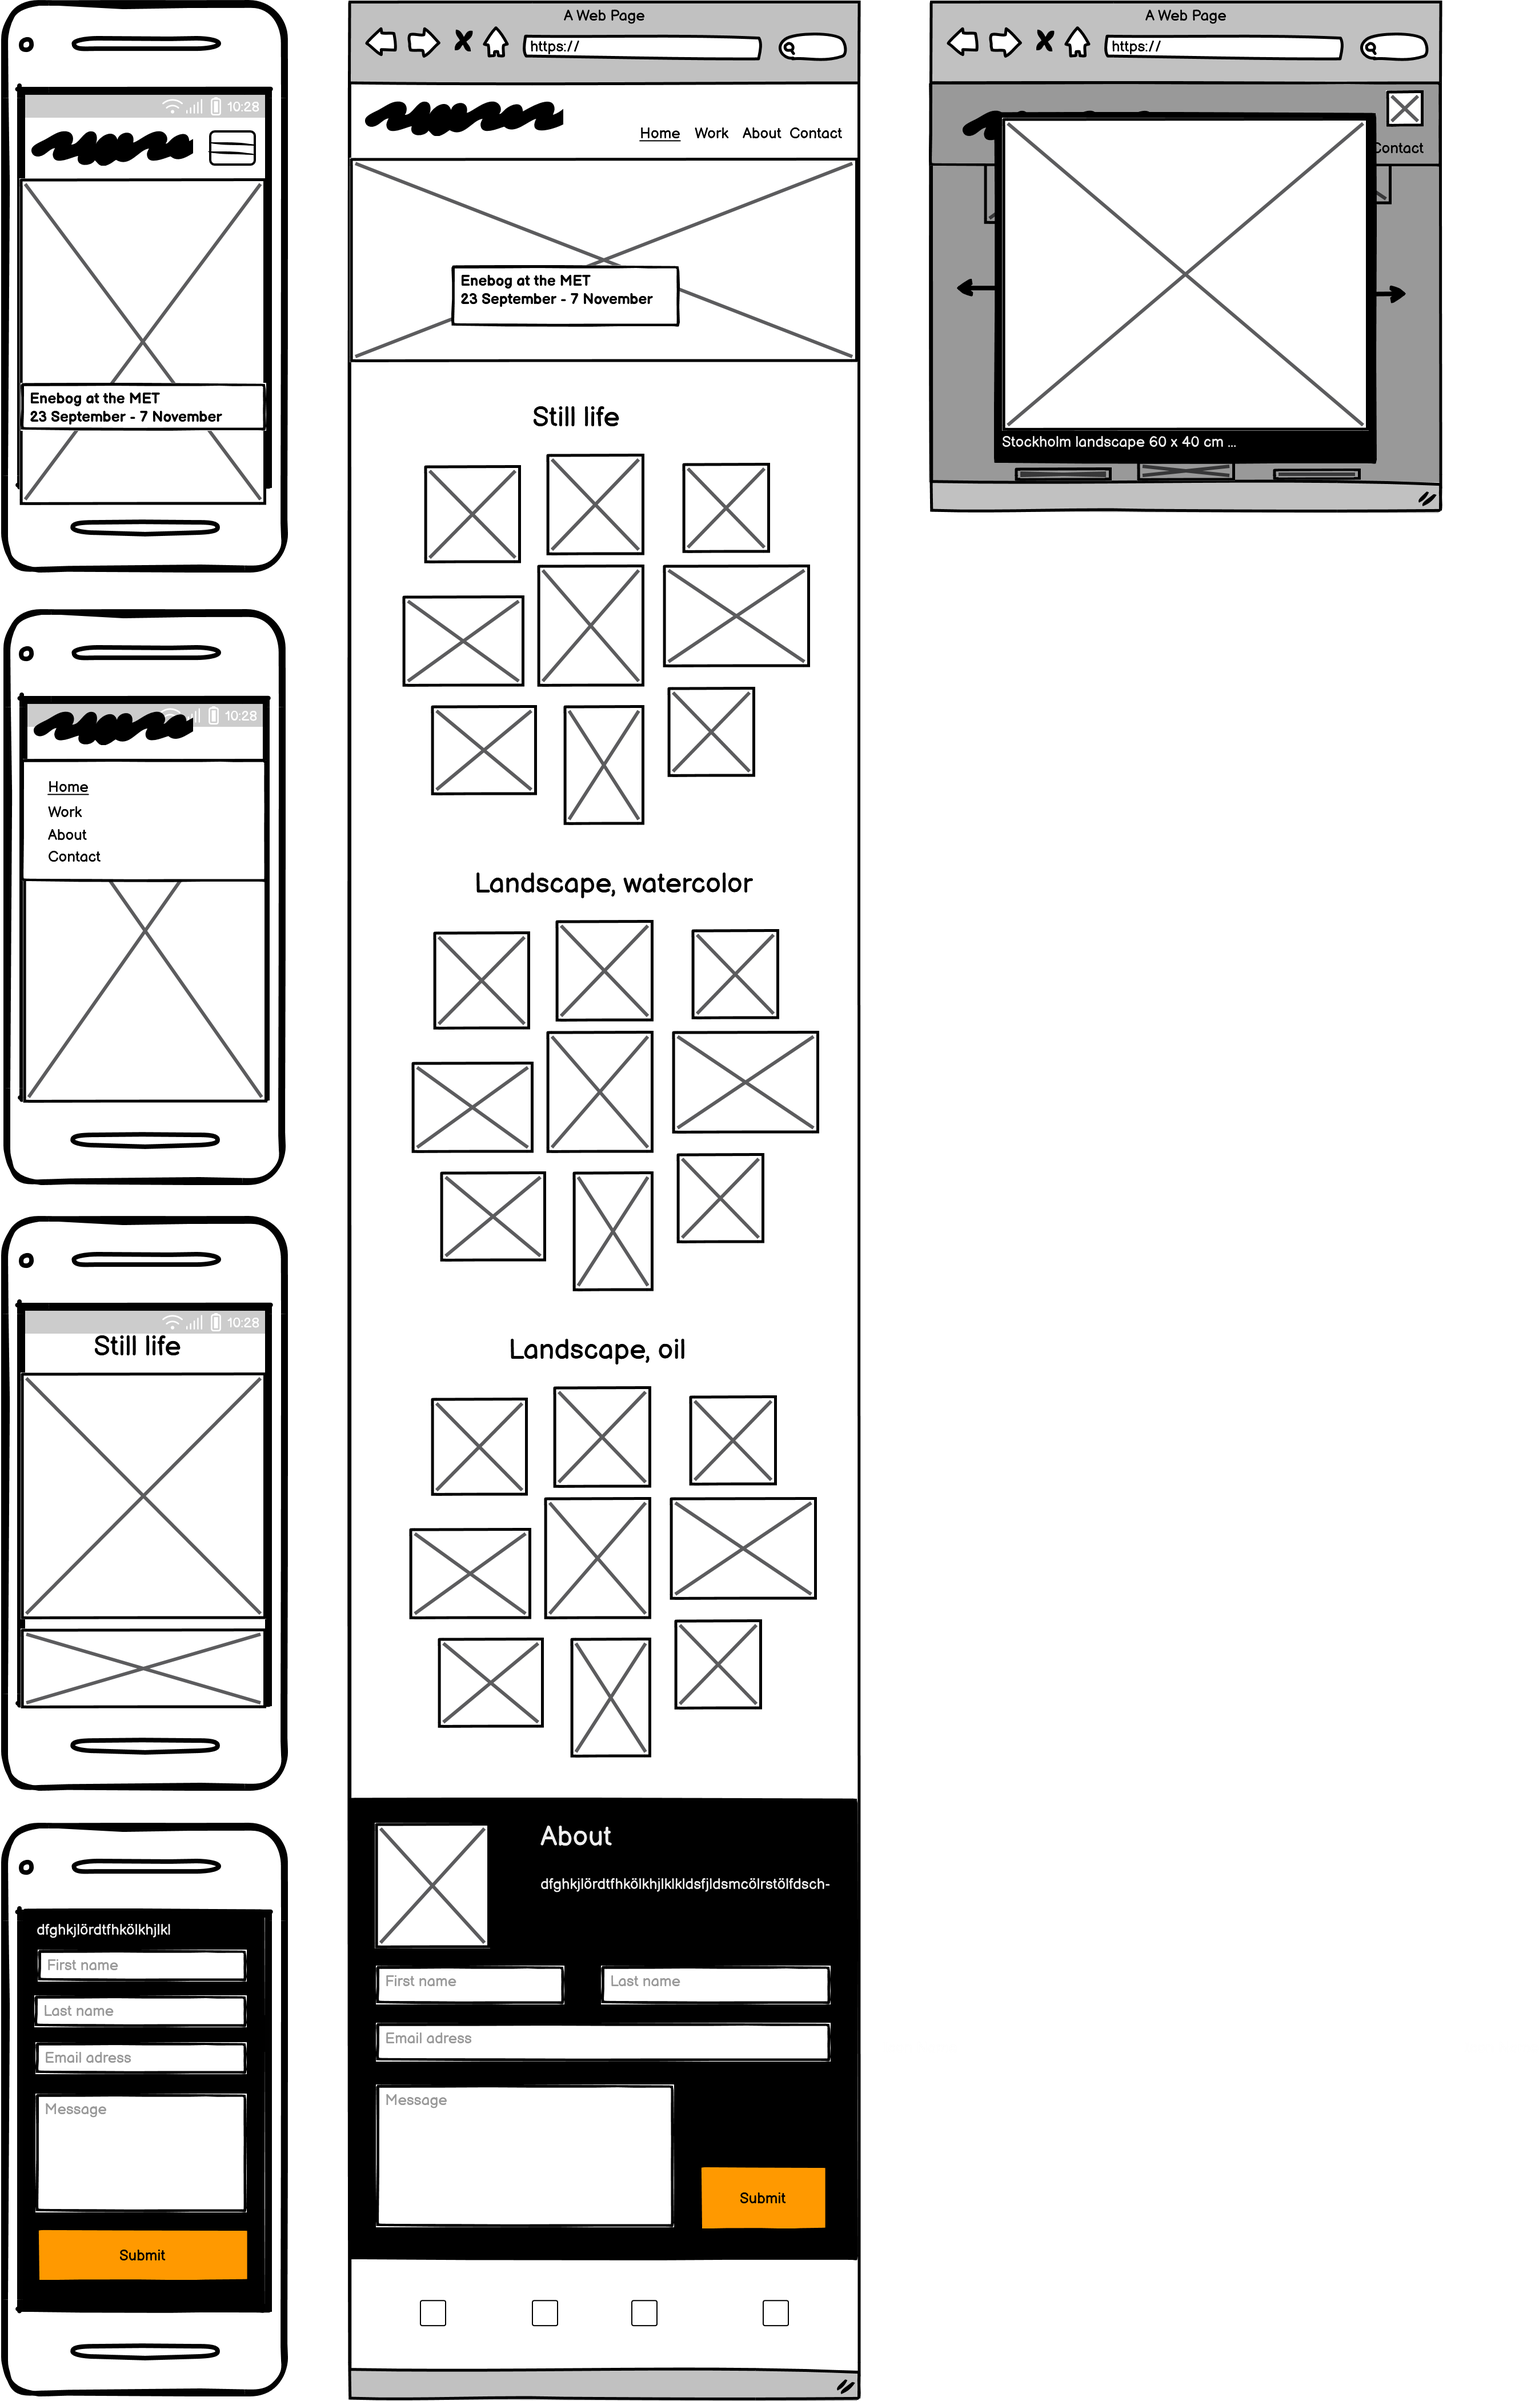
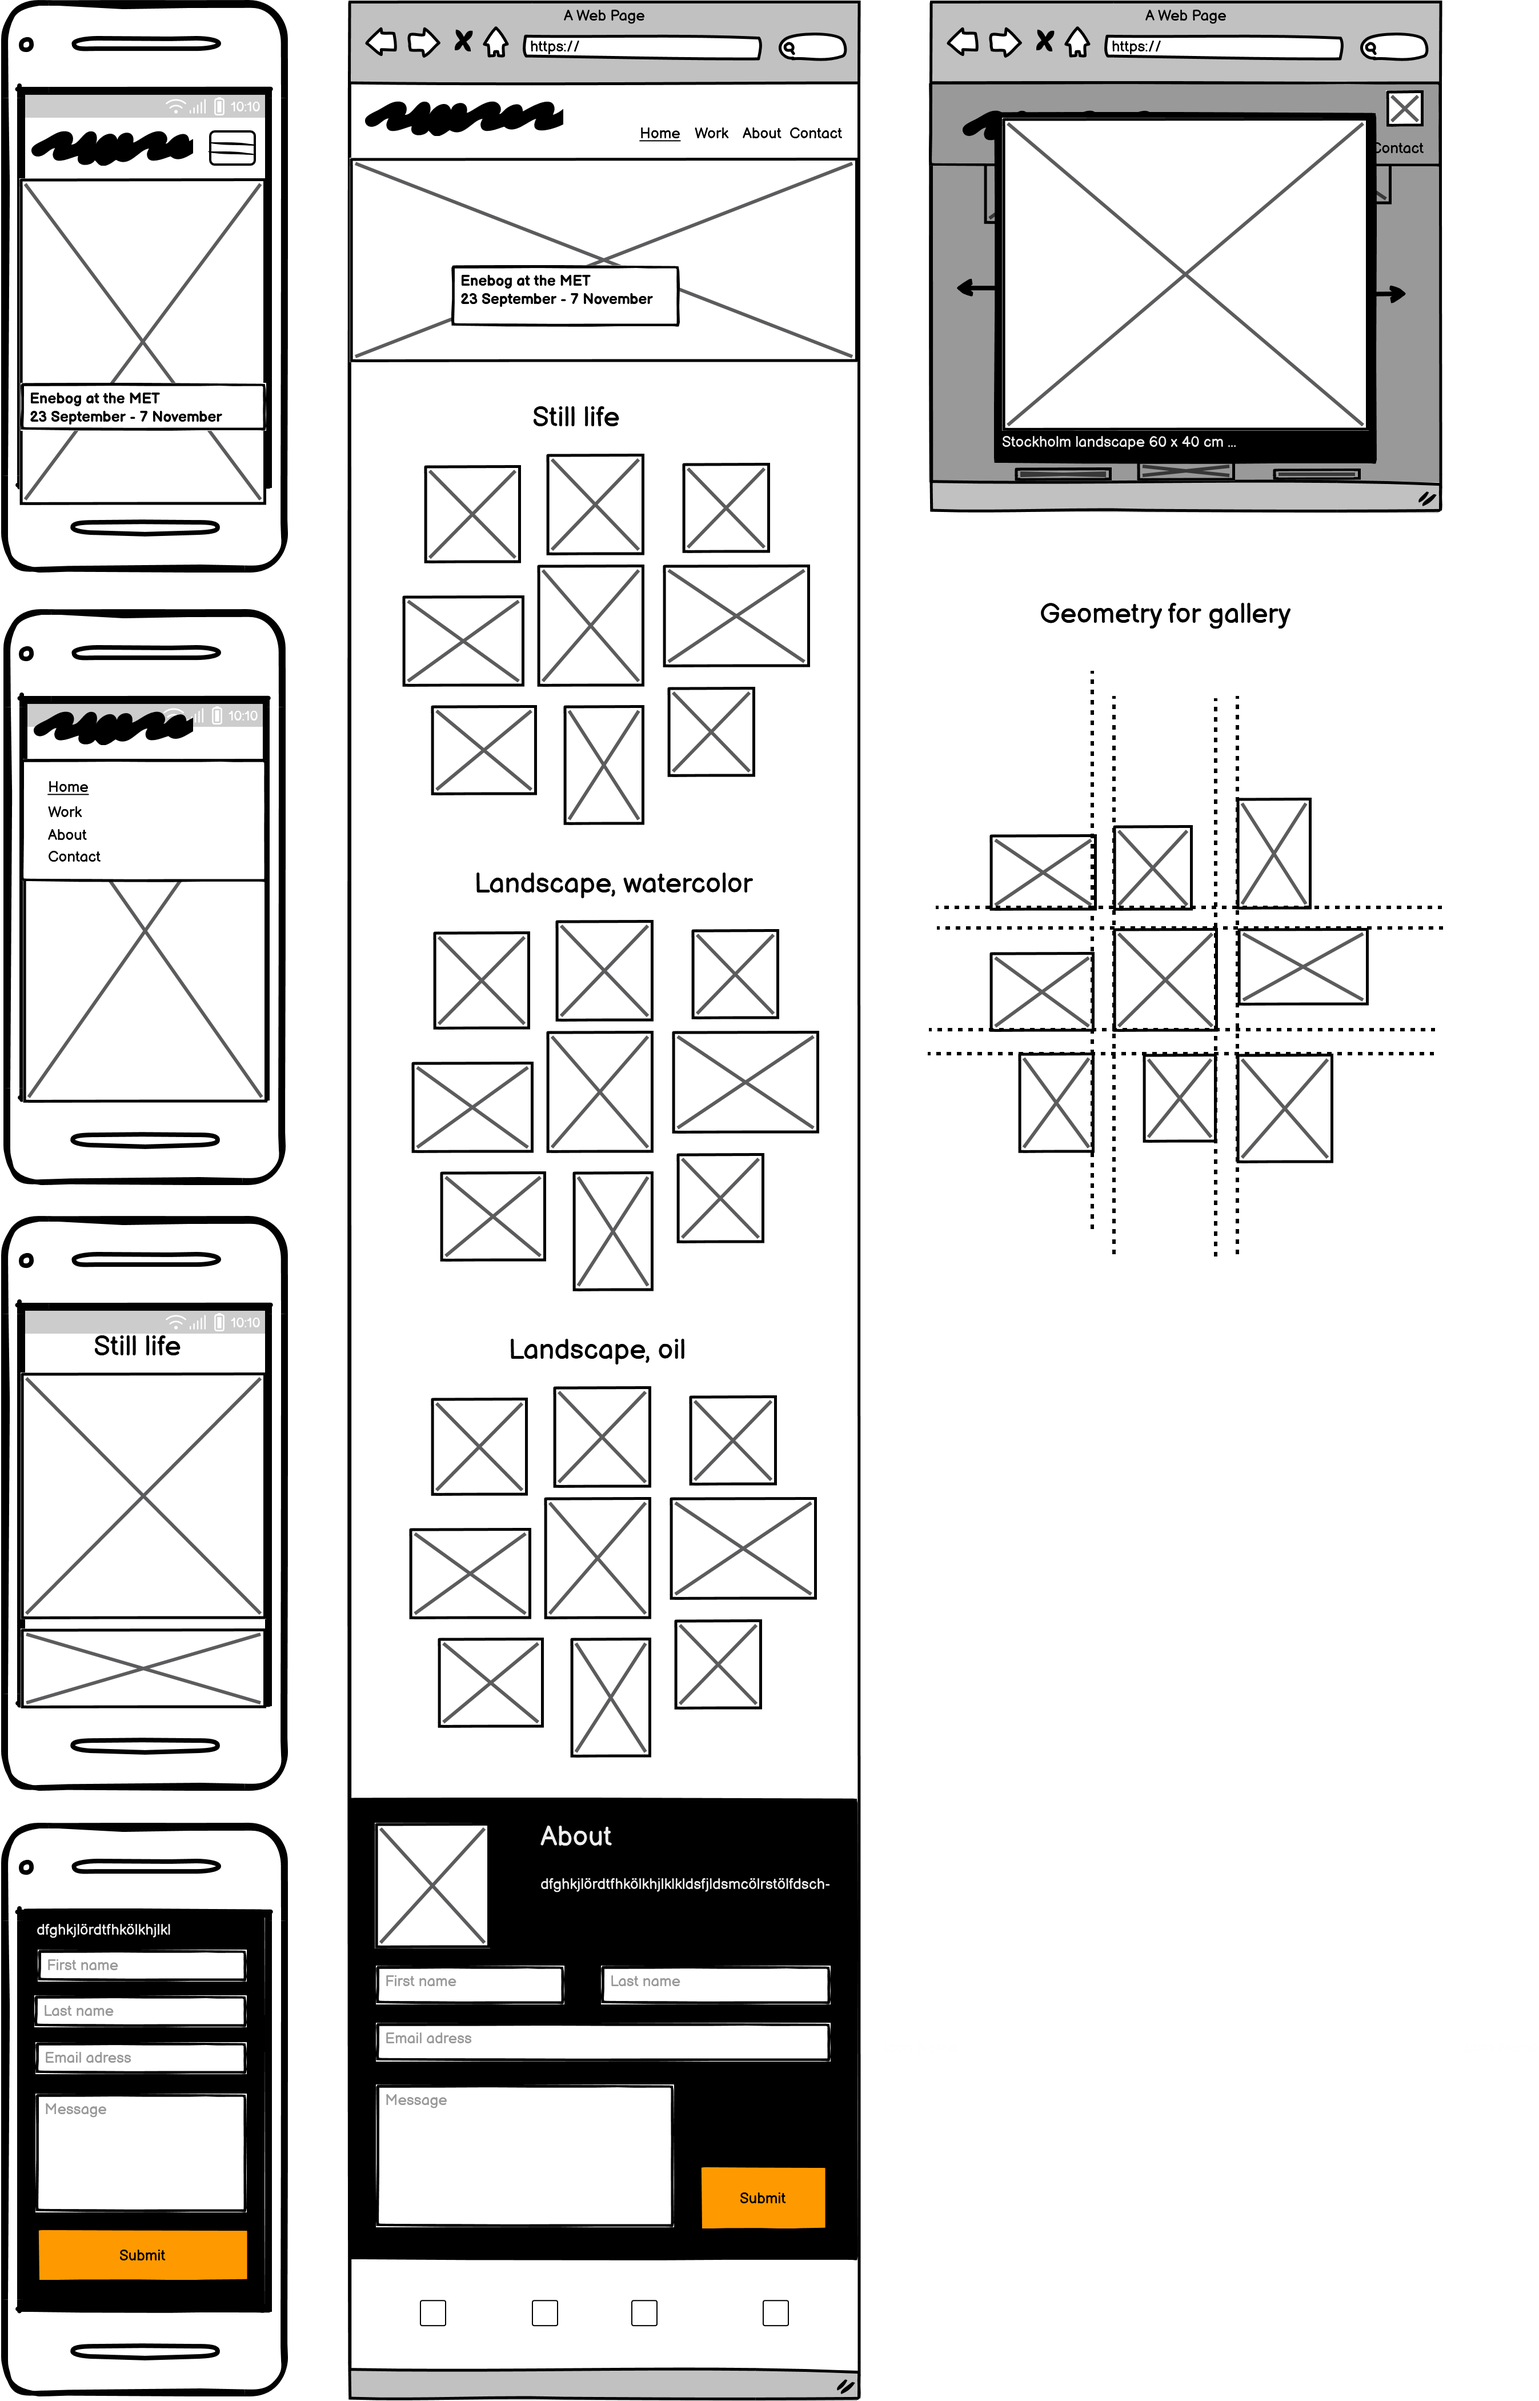
style about, gallery and gallery display page

Changed region(s): [[0.6236, 0.3429, 0.9042, 0.4988], [0.7795, 0.2494, 0.8419, 0.2806], [0.686, 0.2494, 0.7483, 0.2806]]

diff --git a/index.html b/index.html
@@ -64,7 +64,7 @@
             <div class="gallery">
                 <!-- <img class="zoom" src="assets/images/gallery-stillife/stilleben-braided-flask.jpg" alt="Braided flask"> -->
                 <a href="braided-flask.html"><img class="zoom" src="assets/images/gallery-stillife/stilleben-braided-flask-900.jpg" alt="Braided flask"></a>
-                <img class="zoom" src="assets/images/gallery-stillife/stilleben-rutilus-rutilus-900.jpg" alt="Rutilus rutilus">
+                <!-- <img class="zoom" src="assets/images/gallery-stillife/stilleben-rutilus-rutilus-900.jpg" alt="Rutilus rutilus"> -->
                 <img class="zoom" src="assets/images/gallery-stillife/stilleben-tin-can-of-caraway-seed-900.jpg" alt="Tin can of caraway seed">
                 <img class="zoom" src="assets/images/gallery-stillife/stilleben-mortlar-charcoal-900.jpg" alt="Mortlar">
                 <img class="zoom" src="assets/images/gallery-stillife/stilleben-pine-cone-900.jpg" alt="Pine cone">
@@ -106,18 +106,20 @@
         <h1>
             About
         </h1>
-        <img id="about-portrait" src="assets/images/about-portrait.jpg" alt="Portrait of Artist" width="200px">
+        <img class="left" id="about-portrait" src="assets/images/about-portrait.jpg" alt="Portrait of Artist" width="200px">
         <p class="light-on-black-background" style="black">
             This Swedish artist lives in the Bavarian town of Coburg in Germany. Proficient in many styles and techniques his mainstay is oil, watercolor and simple plain drawing and even digital art. The mainstay motives are landscapes be this urban or nature and still life, but his repertoire extendd beyond to people and portraits, comics, technical illustrations and more.<br>
             He has held numerous painting and drawing courses as well as individual lessons. Please get in touch for commission or inquiries about individual lessons.
         </p>
-        <img src="assets/images/logosplash-invert-50px.png">
+        <img class="right" src="assets/images/logosplash-invert-50px.png">
         </font-color>
         </section>
 
         <!-- Contact form -->
         <section id="contact">
             <form id="message-form" method="POST" action="https://formdump.codeinstitute.net"> <!-- What should I change the formdump to --> 
+                <div><p>Gustaf Enebog<br>Markt 16<br>96450 Coburg</p></div>
+                <div><p>+49 173 - 81 88 78 3<br>enebogart@gmail.com</p></div>
                 <h2 class="light-on-black-background">Dont hesitate to contact me!</h2>
                 <label for="first_name" class="light-on-black-background">First Name</label>
                 <input type="text" name="first_name" id="first_name" class="text-input" required>

diff --git a/braided-flask.html b/braided-flask.html
@@ -19,6 +19,8 @@
         <!-- <a href="index.html">BACK</a> -->
         <a id="biglink" href="..">Let strange things happen</a>
         <img src="assets/images/gallery-stillife/stilleben-braided-flask-900.jpg" alt="Braided flask" width="900">
+    </section>
+    <section class="gallery-display"></section>
         <h3 class="light-on-black-background">Gustaf Enebog<br>Braided flask<br>2021<br>Pencil on paper<br>30x22 cm</h3>
         <p class="light-on-black-background">This still life portrays a cord wrapped bottle (done in yesteryears to protect frail glass) bought at a handicraft shop in Waxholm in the Stockholm archipelago. I was fascinated by the twists and turns of the cord, and it made for a quaint and intense still life</p>
     </section>

diff --git a/assets/css/style.css b/assets/css/style.css
@@ -154,7 +154,7 @@ main {
     color:#ffffff;
 }
 
-/* Work (Gallery) */
+/* Work (Gallery) NOT IN USE!!!!!!!!!!!!!!!!!!!!!!!!!!!!!!!!!!!!!!!*/
 
 /* 3W schools code snippet for "Zoom on Hover" modified to this site" */
 * {
@@ -178,13 +178,13 @@ main {
 /* Controlling the images in gallery */
 .gallery img {
     object-fit: contain;
-    width: 700px;
+    width: 100%;
     /* height: 100px; */
     line-height: 1em;
 }
 
 .gallery {
-    line-height: 1em;
+    line-height: 0px;
 }
 
 
@@ -204,6 +204,15 @@ p.light-on-black-background {
     /* background-color: black; */
 }
 
+.left {
+    float: left;
+    padding.left: 15%;
+}
+
+.right {
+    float: right;
+    padding-right: 15%;
+}
 
 /* Form */
 #contact {
